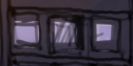
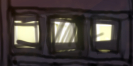
update map and windows with proper window positions

diff --git a/src/index.js b/src/index.js
@@ -68,6 +68,8 @@ function preload () {
 	w6SeenAsset = loadImage('src/assets/w6-seen.jpg');
 	w7HoverAsset = loadImage('src/assets/w7-hover.jpg');
 	w7SeenAsset = loadImage('src/assets/w7-seen.jpg');
+	w8HoverAsset = loadImage('src/assets/w8-hover.jpg');
+	w8SeenAsset = loadImage('src/assets/w8-seen.jpg');
 	selection1Asset = loadImage('src/assets/selection1.png');
 	selection2Asset = loadImage('src/assets/selection2.png');
 	selection3Asset = loadImage('src/assets/selection3.png');
@@ -259,7 +261,7 @@ class Window extends Interactable {
 		this.story1 = config.story1 || 'Person, 27.';
 		this.story2 = config.story2 || '';
 		this.story3 = config.story3 || 'Calm.';
-		this.bgFile = config.bgFile || 'wohnung-2.jpg';
+		this.bgFile = config.bgFile || 'wohnung-5.jpg';
 		this.personOneAsset = config.personOneAsset || 'person1.png';
 		this.personTwoAsset = config.personTwoAsset || '';
 	}
@@ -290,8 +292,8 @@ class Map {
 			this.window2 = new Window({
 					sizeX: w2HoverAsset.width,
 					sizeY: w2HoverAsset.height,
-					positionX: 1305,
-					positionY: 595,
+					positionX: 1366,
+					positionY: 626,
 					asset: w2HoverAsset,
 					assetSeen: w2SeenAsset,
 					bgFile: 'wohnung-4.jpg',
@@ -303,8 +305,8 @@ class Map {
 			this.window3 = new Window({
 					sizeX: w3HoverAsset.width,
 					sizeY: w3HoverAsset.height,
-					positionX: 1544,
-					positionY: 100,
+					positionX: 1601,
+					positionY: 126,
 					asset: w3HoverAsset,
 					assetSeen: w3SeenAsset,
 					personOneAsset: 'person3.png',
@@ -316,34 +318,43 @@ class Map {
 			this.window4 = new Window({
 					sizeX: w4HoverAsset.width,
 					sizeY: w4HoverAsset.height,
-					positionX: 141,
-					positionY: 1189,
+					positionX: 129,
+					positionY: 1183,
 					asset: w4HoverAsset,
 					assetSeen: w4SeenAsset,
 				}),
 			this.window5 = new Window({
 					sizeX: w5HoverAsset.width,
 					sizeY: w5HoverAsset.height,
-					positionX: 448,
-					positionY: 1344,
+					positionX: 414,
+					positionY: 1338,
 					asset: w5HoverAsset,
 					assetSeen: w5SeenAsset,
 				}),
 			this.window6 = new Window({
 					sizeX: w6HoverAsset.width,
 					sizeY: w6HoverAsset.height,
-					positionX: 1229,
-					positionY: 1415,
+					positionX: 1225,
+					positionY: 1442,
 					asset: w6HoverAsset,
 					assetSeen: w6SeenAsset,
 				}),
-			this.window7 = new Window({
-					sizeX: w7HoverAsset.width,
-					sizeY: w7HoverAsset.height,
-					positionX: 1870,
-					positionY: 1446,
-					asset: w7HoverAsset,
-					assetSeen: w7SeenAsset,
+				// fix position/asset first
+			// this.window7 = new Window({
+			// 		sizeX: w7HoverAsset.width,
+			// 		sizeY: w7HoverAsset.height,
+			// 		positionX: 1307,
+			// 		positionY: 1441,
+			// 		asset: w7HoverAsset,
+			// 		assetSeen: w7SeenAsset,
+			// 	}),
+			this.window8 = new Window({
+					sizeX: w8HoverAsset.width,
+					sizeY: w8HoverAsset.height,
+					positionX: 1868,
+					positionY: 1444,
+					asset: w8HoverAsset,
+					assetSeen: w8SeenAsset,
 				}),
 		]
 	}
